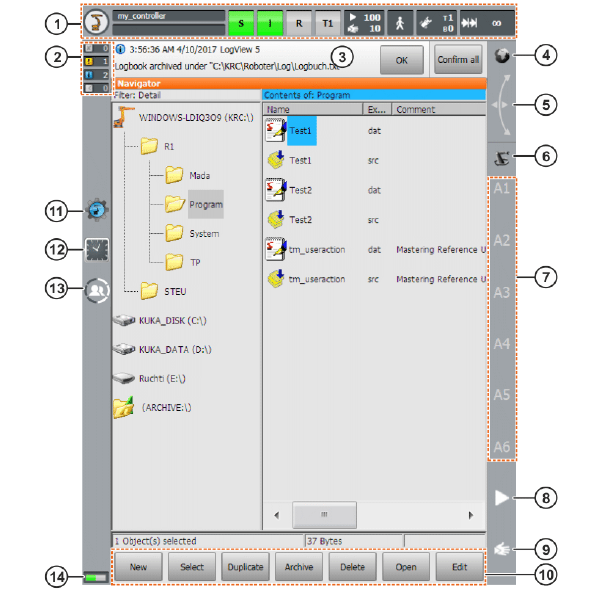
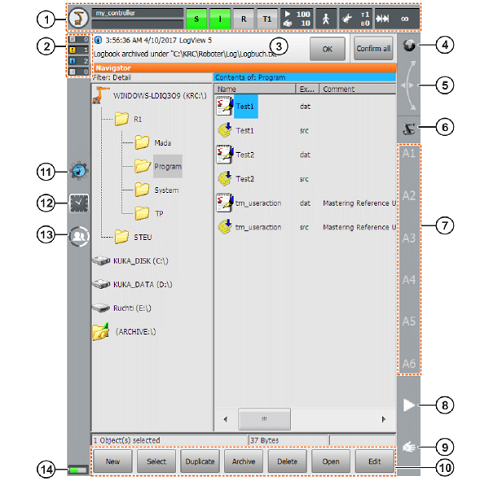
modify SmartPAD info
modify img size
add SmartPAD main desktop

diff --git a/index.md b/index.md
@@ -14,6 +14,8 @@
 - SmartPAD 背面
 ![Image](./img/SmartPAD back.PNG)
 
+- SmartPAD 主畫面
+![Image](./img/SmartPAD Main desktop.PNG)
 
 
 ### 軸向
